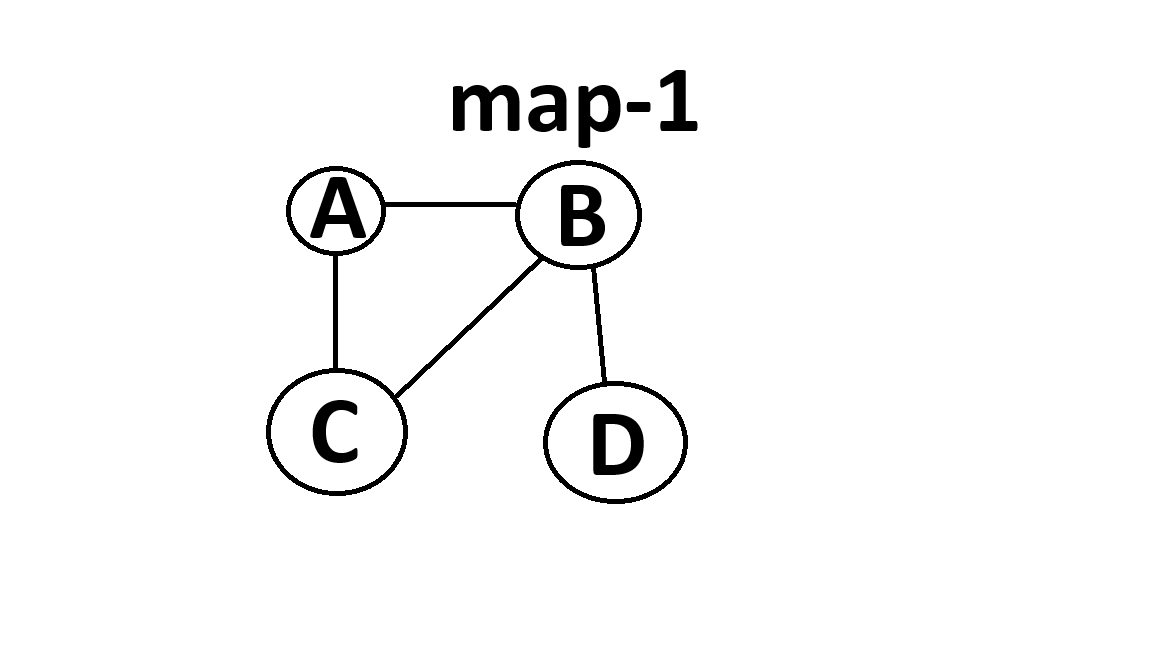
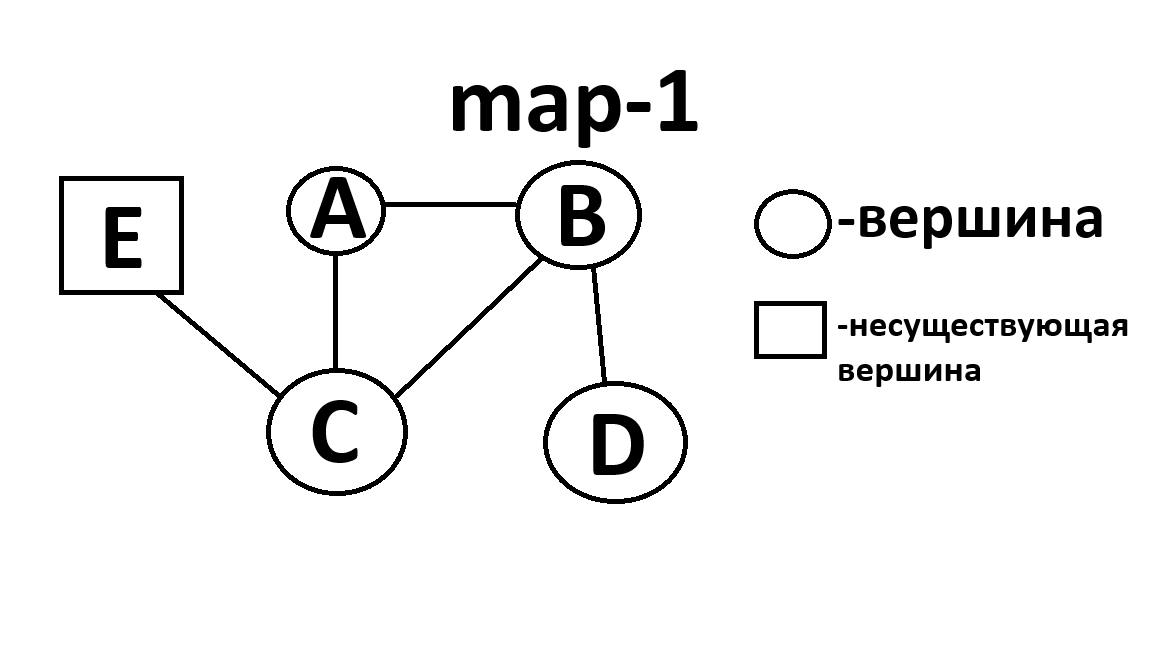
Restructured the architecture. Finished importing graph from .json, now it is correct.

diff --git a/map.py b/map.py
@@ -3,26 +3,40 @@
 
 import json
 import logging
-from point import Point
+from graph import Edge, Point
 
 
 class Map:
-    def __init__(self, points: tuple[Point] = ()):
+    def __init__(self, points: list[Point] = (), edges: list[Edge] = ()):
         self.points = points
+        self.edges = edges
 
     def setup(self, path_to_file: str):
         try:
             with open(path_to_file, "r") as file:
                 data = json.loads(file.read())
-            self.points = data["points"]
+
+            edges = [Edge(edge[0], edge[1]) for edge in data["edges"]]
+            self.edges = edges
+
+            points = []
+            for point_name in data["points"]:
+                point_edges = []
+                for edge in edges:
+                    if edge.point_a == point_name or edge.point_b == point_name:
+                        point_edges.append(edge)
+                points.append(Point(point_name, point_edges))
+            self.points = points
         except json.decoder.JSONDecodeError:
-            logging.error("json.decoder.JSONDecodeError: map file is empty.")
+            logging.error("json.decoder.JSONDecodeError: map file misfiled.")
         except FileNotFoundError:
             logging.error("FileNotFoundError: path to map file is wrong.")
         except KeyError:
-            logging.error("KeyError: map has not \"points\" key.")
+            logging.error("KeyError: map has not necessary key.")
         except TypeError:
             logging.error("TypeError: wtf, why is it not dict?")
+        except IndexError:
+            logging.error("IndexError: some edge oes not have one of the points.")
 
     def commit(self, path_to_file: str):
         pass

diff --git a/graph.py b/graph.py
@@ -1,0 +1,17 @@
+# -*- coding: ascii -*-
+# by mrfriot
+
+
+class Edge:
+    def __init__(self, point_a_name: str, point_b_name: str):
+        self.point_a = point_a_name
+        self.point_b = point_b_name
+
+
+class Point:
+    def __init__(self, name: str, edges: list[Edge] = ()):
+        self.name = name
+        self.edges = edges
+
+    def set_edges(self, edges: list[Edge]):
+        self.edges = edges

diff --git a/main.py b/main.py
@@ -9,6 +9,7 @@ def main() -> None:
     my_map = map.Map()
     my_map.setup("./maps/map1.json")
     print(my_map.points)
+    print(my_map.edges)
 
 
 if __name__ == "__main__":
